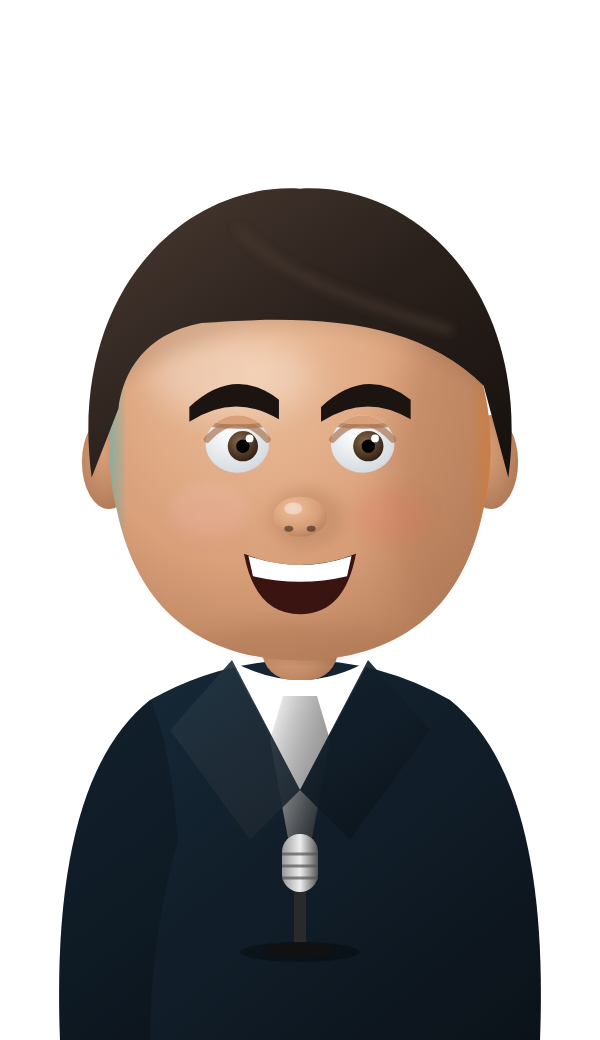
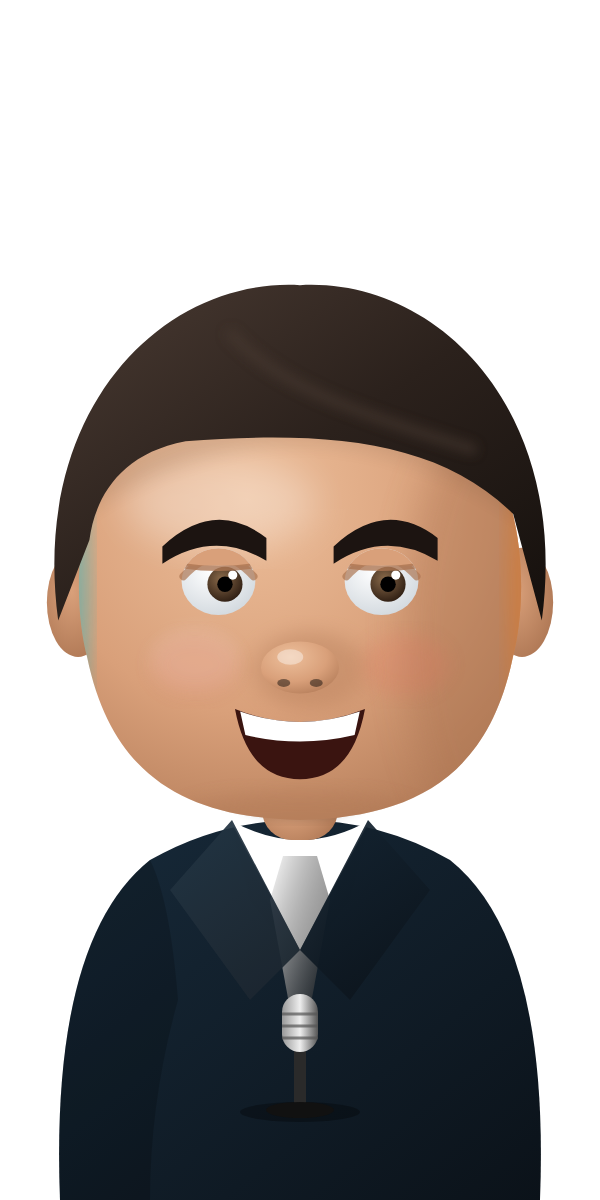
Caricaturas v3: proporções medidas nas fotos e cabeças maiores
Claude-Session: https://claude.ai/code/session_01NgGM5uXfNVxrxKnHrgdLVu

Changed region(s): [[0.06, 0.1538, 0.93, 0.9231], [0.09, 0.8308, 0.12, 0.8923], [0.81, 0.3077, 0.84, 0.3385]]

diff --git a/rubrica-quem-disse-isto/01_imagem/build/suspeitos.js b/rubrica-quem-disse-isto/01_imagem/build/suspeitos.js
@@ -6,17 +6,17 @@ const O = '#F58220', OD = '#D96516', W = '#FFFFFF', K = '#171717', N = '#172A3A'
 const PRESETS = {
   // Traços baseados nas fotos de referência (cabelo, sobrancelhas, óculos, forma da cara).
   cavaco: { nome: 'Cavaco Silva', pele: ['#F2CDAE', '#E2B08C', '#B9835F'], cabelo: ['#C9CED3', '#8E959C', '#5C636A'],
-    w: 122, h: 250, jaw: .5, hl: -26, vol: 34, lid: .6, nl: 1.35, estilo: 'atras', sobr: { t: 24, w: 80, cor: '#3B4045' }, oculos: 'nenhum', nariz: 1.1, orelha: 1,
+    w: 122, h: 250, jaw: .5, hl: -26, vol: 34, lid: .45, nl: 1.1, exm: .8, mw: .62, chin: 26, bgap: 14, nw: .85, estilo: 'atras', sobr: { t: 24, w: 80, cor: '#3B4045' }, oculos: 'nenhum', nariz: 1.1, orelha: 1,
     rugas: true, sorriso: .0, fato: N, gravata: OD, camisa: G, prop: 'caneta', brilho: 1 },
   passos: { nome: 'Passos Coelho', pele: ['#F3CBAA', '#E4B08C', '#B98562'], cabelo: ['#6B4A36', '#3E2A1F', '#22160F'],
-    w: 120, h: 244, jaw: .5, hl: 6, vol: 40, lid: .15, nl: 1.2, estilo: 'lado', sobr: { t: 20, w: 76, cor: '#2A1B13' }, oculos: 'fino', nariz: 1.05, orelha: 1,
+    w: 120, h: 244, jaw: .5, hl: 6, vol: 40, lid: .15, nl: 1.25, exm: 1.07, erm: 1.18, mw: .75, myo: 12, bgap: -6, estilo: 'lado', sobr: { t: 20, w: 76, cor: '#2A1B13' }, oculos: 'fino', nariz: 1.05, orelha: 1,
     rugas: false, sorriso: .0, fato: N, gravata: O, camisa: W, prop: 'copo', brilho: 1 },
   // PROVISÓRIO: sem foto utilizável → só adereços do briefing, traços genéricos (sem semelhança).
   portas: { nome: 'Paulo Portas (PROVISÓRIO)', pele: ['#F1C9A8', '#E1AE8A', '#B6805D'], cabelo: ['#9A9A9A', '#6E6E6E', '#444'],
     w: 140, h: 200, jaw: .64, hl: 22, estilo: 'lado', sobr: { t: 13, w: 66, cor: '#555' }, oculos: 'nenhum', nariz: 1.0, orelha: 1,
     rugas: false, sorriso: .1, fato: N, gravata: G, camisa: W, prop: 'pasta', brilho: 1 },
   montenegro: { nome: 'Luís Montenegro', pele: ['#EDBF9B', '#D9A07A', '#AD7653'], cabelo: ['#4A3B33', '#2B211C', '#15100D'],
-    w: 176, h: 180, jaw: .88, hl: -4, vol: 26, lid: .1, nl: .9, estilo: 'lado', sobr: { t: 22, w: 80, cor: '#1c1411' }, oculos: 'nenhum', nariz: 1.0, orelha: 1,
+    w: 176, h: 180, jaw: .88, hl: -4, vol: 26, lid: .3, nl: 1.0, exm: 1.12, nw: 1.25, bgap: -6, chin: -10, estilo: 'lado', sobr: { t: 22, w: 80, cor: '#1c1411' }, oculos: 'nenhum', nariz: 1.0, orelha: 1,
     rugas: false, sorriso: .75, fato: N, gravata: W, camisa: W, prop: 'microfone', brilho: 1 },
   apresentador: { nome: 'Apresentador', pele: ['#F5D3B5', '#E6B796', '#BC8A67'], cabelo: ['#3B3B3B', '#171717', '#050505'],
     w: 140, h: 200, jaw: .62, hl: 8, estilo: 'curto', sobr: { t: 14, w: 66, cor: '#171717' }, oculos: 'nenhum', nariz: .95, orelha: 1,
@@ -33,8 +33,8 @@ function suspeito(key, expr = 'neutro', uid = key) {
   const P = PRESETS[key], E = EXPR[expr], cx = 300, cy = 300, w = P.w, h = P.h, j = P.jaw;
   const [s1, s2, s3] = P.pele, [h1, h2, h3] = P.cabelo;
   const id = (n) => `${uid}_${n}`;
-  const head = `M${cx} ${cy - h} C${cx + w * 1.02} ${cy - h} ${cx + w * 1.02} ${cy - h * .05} ${cx + w * .93} ${cy + h * .28} C${cx + w * .82} ${cy + h * .8} ${cx + w * j * .55} ${cy + h * 1.02} ${cx} ${cy + h * 1.03} C${cx - w * j * .55} ${cy + h * 1.02} ${cx - w * .82} ${cy + h * .8} ${cx - w * .93} ${cy + h * .28} C${cx - w * 1.02} ${cy - h * .05} ${cx - w * 1.02} ${cy - h} ${cx} ${cy - h}Z`;
-  const ex = 56, ey = cy - 8, er = 27 * E.olhos;
+  const head = `M${cx} ${cy - h} C${cx + w * 1.02} ${cy - h} ${cx + w * 1.02} ${cy - h * .05} ${cx + w * .93} ${cy + h * .28} C${cx + w * .82} ${cy + h * .8} ${cx + w * j * .55} ${cy + h * 1.02 + (P.chin || 0)} ${cx} ${cy + h * 1.03 + (P.chin || 0)} C${cx - w * j * .55} ${cy + h * 1.02 + (P.chin || 0)} ${cx - w * .82} ${cy + h * .8} ${cx - w * .93} ${cy + h * .28} C${cx - w * 1.02} ${cy - h * .05} ${cx - w * 1.02} ${cy - h} ${cx} ${cy - h}Z`;
+  const ex = 56 * (P.exm || 1), ey = cy - 8, er = 27 * E.olhos * (P.erm || 1);
   const sm = P.sorriso;
   // boca
   let boca = '';
@@ -47,7 +47,7 @@ function suspeito(key, expr = 'neutro', uid = key) {
   else boca = `<path d="M${cx - 36} ${my} Q${cx} ${my + 10 + sm * 14} ${cx + 36} ${my}" fill="none" stroke="#7a3a2e" stroke-width="7" stroke-linecap="round"/><path d="M${cx - 30} ${my + 12} Q${cx} ${my + 22} ${cx + 30} ${my + 12}" fill="none" stroke="${s3}" stroke-width="5" stroke-linecap="round" opacity=".55"/>`;
   // sobrancelhas
   const b = P.sobr;
-  const brow = (sx, ang, raise) => `<g transform="translate(${cx + sx * ex * 1.05} ${cy - 52 + raise}) rotate(${ang * sx})"><path d="M${-b.w / 2} ${b.t * .5} Q0 ${-b.t * 1.2} ${b.w / 2} ${b.t * .2} L${b.w / 2} ${b.t * 1.0} Q0 ${-b.t * .1} ${-b.w / 2} ${b.t * 1.1}Z" fill="${b.cor}"/></g>`;
+  const brow = (sx, ang, raise) => `<g transform="translate(${cx + sx * ex * 1.05} ${cy - 52 - (P.bgap || 0) + raise}) rotate(${ang * sx})"><path d="M${-b.w / 2} ${b.t * .5} Q0 ${-b.t * 1.2} ${b.w / 2} ${b.t * .2} L${b.w / 2} ${b.t * 1.0} Q0 ${-b.t * .1} ${-b.w / 2} ${b.t * 1.1}Z" fill="${b.cor}"/></g>`;
   // cabelo
   const top = cy - h;
   const vol0 = P.vol || 0; const hairOuter = `M${cx - w - 10} ${cy + 22} C${cx - w - 24 - vol0 * .3} ${top + 40} ${cx - w * .6} ${top - 36 - vol0} ${cx} ${top - 30 - vol0} C${cx + w * .6} ${top - 36 - vol0} ${cx + w + 24 + vol0 * .3} ${top + 40} ${cx + w + 10} ${cy + 22}`;
@@ -105,7 +105,7 @@ function suspeito(key, expr = 'neutro', uid = key) {
   <path d="M232 520 L170 590 L250 700 L300 650Z" fill="#fff" opacity=".05"/>
   <rect x="262" y="420" width="76" height="120" rx="30" fill="url(#${id('skin')})"/>
   <ellipse cx="300" cy="${cy + h * .98 + 18}" rx="64" ry="22" fill="#000" opacity=".3" filter="url(#${id('bl2')})"/>
-  <g transform="translate(300 500) scale(${P.escala || 1.12}) translate(-300 -${500 + Math.round(1.03 * h - 218)})">
+  <g transform="translate(300 500) scale(${P.escala || 1.3}) translate(-300 -${500 + Math.round(1.03 * h + (P.chin || 0) - 200 - 20 / 1.3)})">
   <ellipse cx="${cx - w * .97}" cy="${cy + 8}" rx="${24 * P.orelha}" ry="${42 * P.orelha}" fill="url(#${id('ear')})"/>
   <ellipse cx="${cx + w * .97}" cy="${cy + 8}" rx="${24 * P.orelha}" ry="${42 * P.orelha}" fill="url(#${id('ear')})"/>
   <path d="${head}" fill="url(#${id('skin')})"/>
@@ -131,13 +131,13 @@ function suspeito(key, expr = 'neutro', uid = key) {
   </g>
   ${P.lid ? [-1, 1].map((sx) => `<g><clipPath id="${id('lc' + sx)}"><ellipse cx="${cx + sx * ex}" cy="${ey}" rx="${er * 1.05}" ry="${er * .95}"/></clipPath><rect clip-path="url(#${id('lc' + sx)})" x="${cx + sx * ex - er * 1.1}" y="${ey - er}" width="${er * 2.2}" height="${er * (.25 + P.lid)}" fill="${s2}"/><path d="M${cx + sx * ex - er} ${ey - er + er * (.25 + P.lid)} Q${cx + sx * ex} ${ey - er + er * (.25 + P.lid) + 4} ${cx + sx * ex + er} ${ey - er + er * (.25 + P.lid)}" fill="none" stroke="${s3}" stroke-width="4" opacity=".8" clip-path="url(#${id('lc' + sx)})"/></g>`).join('') : ''}
   <g id="sobrancelhas">${brow(-1, E.brow[0], E.raiseL)}${brow(1, E.brow[1], E.raiseR)}</g>
-  <g id="nariz" transform="translate(${cx} ${cy + 46}) scale(${P.nariz} ${P.nariz * (P.nl || 1)})"><ellipse cx="6" cy="14" rx="34" ry="30" fill="${s3}" opacity=".35" filter="url(#${id('bl2')})"/><ellipse cx="0" cy="12" rx="24" ry="20" fill="url(#${id('skin')})"/><ellipse cx="-6" cy="4" rx="8" ry="6" fill="#fff" opacity=".4"/><ellipse cx="-10" cy="24" rx="4" ry="3" fill="#000" opacity=".45"/><ellipse cx="10" cy="24" rx="4" ry="3" fill="#000" opacity=".45"/></g>
-  <g id="boca">${boca}</g>
+  <g id="nariz" transform="translate(${cx} ${cy + 46}) scale(${P.nariz * (P.nw || 1)} ${P.nariz * (P.nl || 1)})"><ellipse cx="6" cy="14" rx="34" ry="30" fill="${s3}" opacity=".35" filter="url(#${id('bl2')})"/><ellipse cx="0" cy="12" rx="24" ry="20" fill="url(#${id('skin')})"/><ellipse cx="-6" cy="4" rx="8" ry="6" fill="#fff" opacity=".4"/><ellipse cx="-10" cy="24" rx="4" ry="3" fill="#000" opacity=".45"/><ellipse cx="10" cy="24" rx="4" ry="3" fill="#000" opacity=".45"/></g>
+  <g id="boca" transform="translate(${cx} ${my + (P.myo || 0)}) scale(${P.mw || 1} 1) translate(${-cx} ${-my})">${boca}</g>
   ${oculos}
   <g id="cabelo">${hair}</g>
   </g>`;
   return { body, props, uid };
 }
 
-const wrapBust = (s, scale = 1) => `<svg xmlns="http://www.w3.org/2000/svg" width="${600 * scale}" height="${1040 * scale}" viewBox="0 -140 600 1040">${s.body}<g transform="translate(300 700)">${s.props}</g></svg>`;
+const wrapBust = (s, scale = 1) => `<svg xmlns="http://www.w3.org/2000/svg" width="${600 * scale}" height="${1200 * scale}" viewBox="0 -300 600 1200">${s.body}<g transform="translate(300 700)">${s.props}</g></svg>`;
 module.exports = { PRESETS, EXPR, suspeito, wrapBust, O, OD, W, K, N, G };

diff --git a/rubrica-quem-disse-isto/01_imagem/build/build_suspeitos.js b/rubrica-quem-disse-isto/01_imagem/build/build_suspeitos.js
@@ -5,7 +5,7 @@ const P = (n) => `file://${R}/png_brand/${n}.png`;
 const order = ['cavaco', 'passos', 'portas', 'montenegro'];
 const lineup = (expr) => {
   const xs = [330, 780, 1230, 1680];
-  const busts = order.map((k, i) => { const s = suspeito(k, expr, k + i); return `<svg style="position:absolute;left:${xs[i] - 220}px;top:40px" width="440" height="763" viewBox="0 -140 600 1040">${s.body}</svg>`; }).join('');
+  const busts = order.map((k, i) => { const s = suspeito(k, expr, k + i); return `<svg style="position:absolute;left:${xs[i] - 180}px;top:-20px" width="360" height="720" viewBox="0 -300 600 1200">${s.body}</svg>`; }).join('');
   const props = order.map((k, i) => { const s = suspeito(k, expr, k + 'p' + i); return `<svg style="position:absolute;left:${xs[i] - 150}px;top:600px;overflow:visible" width="300" height="200" viewBox="-150 0 300 200"><g transform="scale(1.05)">${s.props}</g>${s.body.includes('defs') ? s.body.match(/<defs>[\s\S]*?<\/defs>/)[0] : ''}</svg>`; }).join('');
   const NOMES = ['Cavaco Silva', 'Passos Coelho', 'Paulo Portas', 'Luís Montenegro'];
   const cards = xs.map((x, i) => `<div class=glass style="position:absolute;left:${x - 170}px;top:860px;width:340px;padding:14px 22px;display:flex;gap:14px;border-radius:22px;font-family:M"><i style="width:5px;border-radius:3px;background:#F58220"></i><div><div style="font-size:32px;font-weight:700">${NOMES[i]}</div><div style="font-size:20px;font-weight:700;opacity:.85;letter-spacing:2px">SUSPEITO N.º ${i + 1}</div></div></div>`).join('');
@@ -22,7 +22,7 @@ const lineup = (expr) => {
   for (const k of [...order, 'apresentador']) for (const e of ['neutro', 'nega']) {
     const svg = wrapBust(suspeito(k, e), 1);
     fs.writeFileSync(path.join(R, 'svg', `3d_${k}_${e}.svg`), svg);
-    await shot(`<body style="margin:0;background:transparent">${svg}</body>`, 600, 1040, `${k}_${e}.png`, true);
+    await shot(`<body style="margin:0;background:transparent">${svg}</body>`, 600, 1200, `${k}_${e}.png`, true);
   }
   await shot(lineup('neutro'), 1920, 1080, 'teste_quatro_juntos_neutro.png');
   await shot(lineup('nega'), 1920, 1080, 'teste_quatro_juntos_nega.png');

diff --git a/rubrica-quem-disse-isto/PLANO.md b/rubrica-quem-disse-isto/PLANO.md
@@ -36,3 +36,4 @@ Estado em 2026-11-04. **Fase atual: pesquisa e proposta.** Nada de imagens finai
 - Gerado por `build/suspeitos.js` (mesmas camadas para todos). Tons de pele/cabelo = extras à paleta.
 - Paulo Portas **provisório** (sem foto utilizável, sem semelhança).
 - v2 (nomes no ecrã, traços mais exagerados, luz de contorno laranja/azul-verde): ver `png_personagens/`.
+- v3: proporções medidas nas fotos (pontos faciais, `config/medidas_faciais.json`), cabeças maiores (estilo caricatura de jornal).
